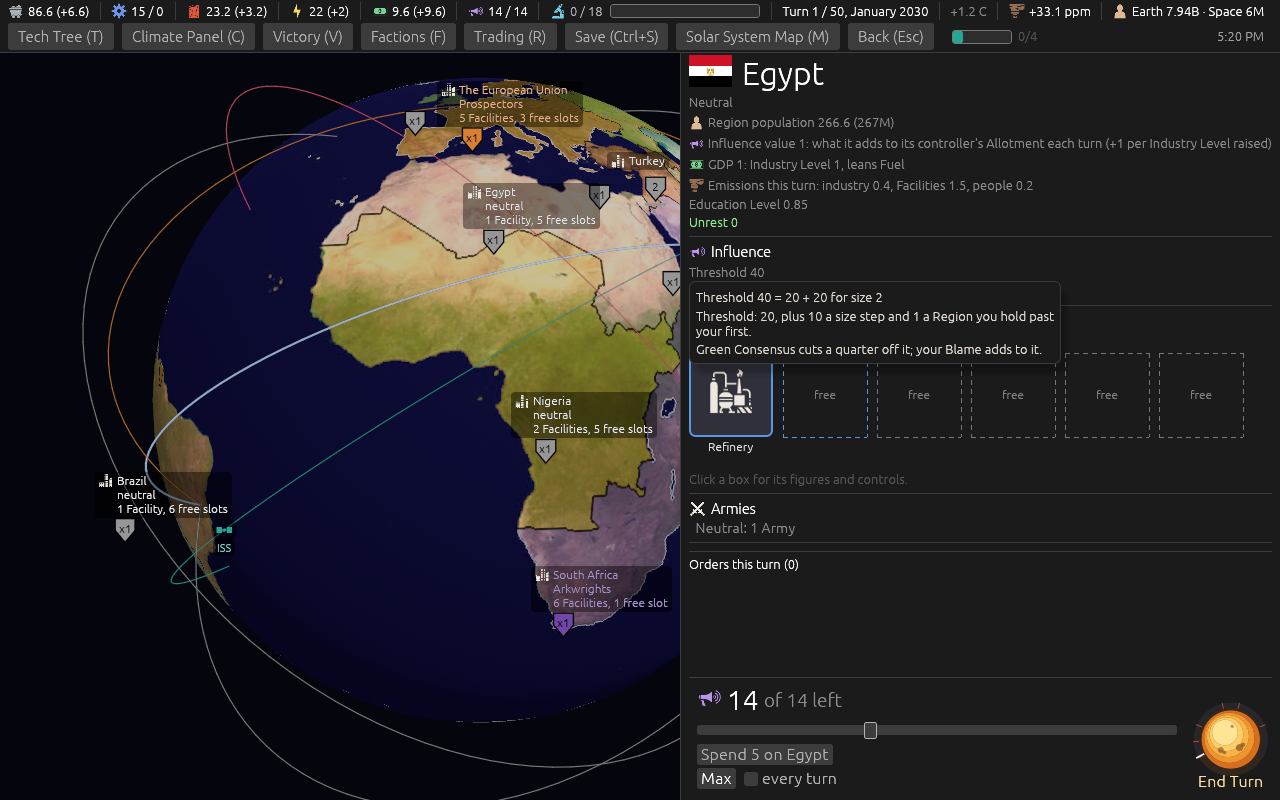
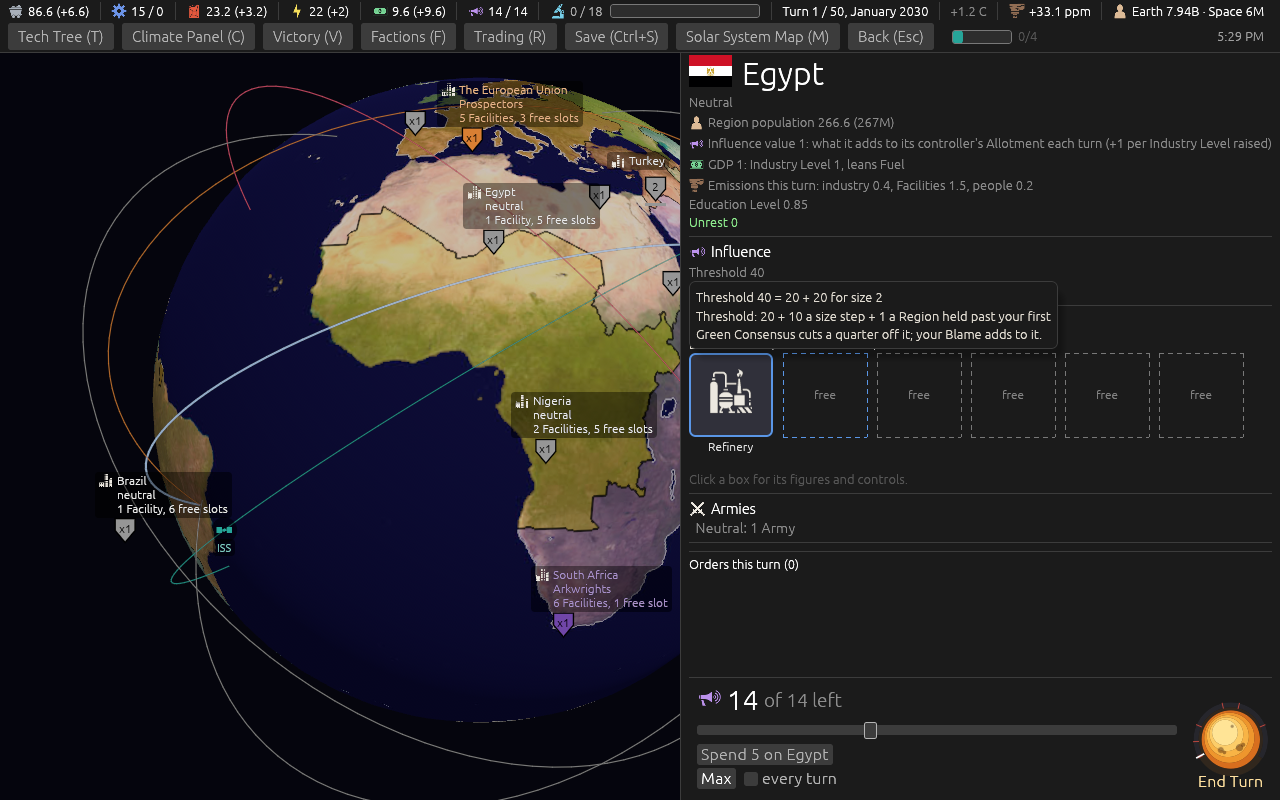
The cheapest rival named at the sum's head, the rule on one line, no sentence after a held place's sums; the stale comments (#608, from the review)

Changed region(s): [[0.5312, 0.375, 0.8438, 0.4688]]

diff --git a/src/ui.rs b/src/ui.rs
@@ -7138,16 +7138,15 @@ fn influence_row(ui: &mut Ui, game: &Game, session: &Session, view: &mut ViewSta
 /// hover of the row's threshold label (`threshold_terms`, `held_price_terms`). The card keeps the
 /// challenger sentence, the threat line and the conversion line.
 ///
-/// Ticket #336 (version 0.09.0): off Earth the first line names the base the place used, since a
-/// station's replaces a Colony's rather than sitting on top of it -- `Threshold 80 - 40 for the
-/// station + 40 for 2 Colonists`, and on the ground `40 for the Colony` in its place.
+/// Ticket #336 (version 0.09.0): off Earth the threshold's terms name the base the place used, since
+/// a station's replaces a Colony's rather than sitting on top of it -- `80 = 40 for the station + 40
+/// for 2 Colonists`, and on the ground `40 for the Colony` in its place.
 ///
-/// It replaces a single sentence that named neither Blame nor Green Consensus though both already
-/// moved the figure. Blame and Green Consensus join the threshold line as further terms only while
-/// they are BITING, which keeps the common case to three lines: measured, Blame sits at exactly
-/// x1.00 in 66% of takes. The conversion line is new with Resistance (ticket #187) and belongs
-/// beside the threshold rather than inside it: it prices what your SPENDING is worth here, where the
-/// other two lines price the gate.
+/// Blame and Green Consensus join the terms only while they are BITING: measured, Blame sits at
+/// exactly x1.00 in 66% of takes. The conversion line is Resistance's (ticket #187) and stays on the
+/// card beside the challenger sentence: it prices what your SPENDING is worth here, where the sums
+/// on the hover price the gate.
+///
 /// Ticket #608 (version 0.1.0.5): the threshold's terms as a SUM, for the threshold label's hover --
 /// `Threshold 31 = 20 + 10 for size 1 + 1 for Regions held`, then `, x1.10 (Blame)` and `, cut by
 /// Green Consensus` while they bite. Off Earth the base is the station's or the Colony's (#336).
@@ -7196,11 +7195,13 @@ fn held_price_terms(game: &Game, target: Place) -> Option<String> {
     let (base, relations, guard) = game.challenge_margin_parts(Some(challenger), target);
     let margin = base + relations + guard;
     let whose = if c == Seat(0) { "your Standing" } else { "their Standing" };
-    let head = if c == Seat(0) { "A rival takes it at" } else { "Take at" };
+    // On the player's own place the cheapest rival is named in the sum's head, so nothing is
+    // appended after it (the review: a clause after the under-threshold sentence read "stands., the").
+    let head = if c == Seat(0) { format!("The {} take it at", game.seat_name(challenger)) } else { "Take at".to_string() };
     // A holder with little Standing is protected by the THRESHOLD rather than by the margin, and the
     // line has to say so or it reads as bad arithmetic: "80 = 0 + 20" is not 80.
     if standing + margin < needed {
-        return Some(format!("{head} {needed}: {whose} {standing} + the margin {margin} comes to {}, under the threshold, so the threshold stands.", standing + margin));
+        return Some(format!("{head} {needed}: {whose} {standing} + the margin {margin} is {}, under the threshold, which stands", standing + margin));
     }
     let mut line = format!("{head} {needed} = {standing} ({whose}) + {base} (margin)");
     if relations > 0 {
@@ -7294,7 +7295,7 @@ Spending here raises the bar; doing nothing lowers it, yours decaying {} a turn 
         }
     }
 
-    // The third: Resistance, which taxes the spending rather than the gate.
+    // Resistance, which taxes the spending rather than the gate.
     let convert = 1.0 / game.resistance(target).max(1e-9);
     let own = game.place_control(target).controller() == Some(Seat(0));
     ui.label(
@@ -7400,22 +7401,8 @@ fn standings_row(ui: &mut Ui, game: &Game, session: &Session, target: Place) {
         if any {
             ui.label(RichText::new("·").weak());
         }
-        // Ticket #161: what a threshold IS and what sets it. The line's hover uses the word and
-        // never defines it.
-        let t = &game.tables.influence;
-        let from = match target {
-            // Ticket #591 (version 0.1.0.4), at the designer's word: the Regions-held term in the rule,
-            // and the size clause cut (the breakdown line beside it names the size).
-            Place::State(_) => format!("{}, plus {} a size step and {} a Region you hold past your first.", t.state_threshold_base, t.state_threshold_per_size, t.threshold_per_region_held),
-            // Ticket #336 (version 0.09.0): the base is the station's on a station and the Colony's
-            // on the ground, and one replaces the other, so the sentence names one figure and not two.
-            Place::Colony(_) => format!(
-                "{} for the {} itself, plus {} a Colonist living here.",
-                if game.colony(match target { Place::Colony(c) => c, _ => unreachable!() }).map(|c| c.in_orbit).unwrap_or(false) { t.station_threshold_base } else { t.colony_threshold_base },
-                if game.colony(match target { Place::Colony(c) => c, _ => unreachable!() }).map(|c| c.in_orbit).unwrap_or(false) { "station" } else { "Colony" },
-                t.colony_threshold_per_colonist
-            ),
-        };
+        // Ticket #161: what a threshold IS and what sets it; ticket #608 (version 0.1.0.5): one line.
+        let from = threshold_rule(game, target);
         // Ticket #372 (version 0.09.2): on a held place the row's figure is THE PRICE TO TAKE IT --
         // the greater of the threshold and the holder's Standing plus the margin, read by the rule
         // that takes it -- where it was the bare threshold whatever the holder stood at, so a
@@ -7435,17 +7422,36 @@ fn standings_row(ui: &mut Ui, game: &Game, session: &Session, target: Place) {
 fn threshold_label(game: &Game, target: Place, spectator: bool, from: &str) -> (String, String) {
     let threshold = game.influence_threshold_for(Seat(0), target);
     let terms = threshold_terms(game, target);
+    // Six lines at most (the review): the held sum and the terms run to two rendered lines each
+    // with a Constabulary, relations or Blame in them, the rule one, so a held place's tip carries
+    // no further sentence; the neutral tip, with no sum, keeps the Green Consensus line.
     match game.place_control(target).controller() {
         Some(Seat(0)) if !spectator => {
-            let (r, price) = cheapest_rival(game, target);
+            let (_, price) = cheapest_rival(game, target);
             let held = held_price_terms(game, target).unwrap_or_default();
-            (format!("A rival takes it at {price}"), format!("{held}, the {} cheapest.\n{terms}\nThreshold: {from}", game.seat_name(r)))
+            (format!("A rival takes it at {price}"), format!("{held}\n{terms}\nThreshold: {from}"))
         }
         Some(_) if !spectator => {
             let held = held_price_terms(game, target).unwrap_or_default();
-            (format!("Take at {}", game.influence_needed_for(Seat(0), target)), format!("{held}\n{terms}\nThreshold: {from}\nGreen Consensus cuts a quarter off it; your Blame adds to it."))
+            (format!("Take at {}", game.influence_needed_for(Seat(0), target)), format!("{held}\n{terms}\nThreshold: {from}"))
         }
         _ => (format!("Threshold {threshold}"), format!("{terms}\nThreshold: {from}\nGreen Consensus cuts a quarter off it; your Blame adds to it.")),
+    }
+}
+
+/// Ticket #161 (version 0.07.5): what a threshold IS and what sets it, for the label's hover. Ticket
+/// #591 (version 0.1.0.4): the Regions-held term. Ticket #608 (version 0.1.0.5): one rendered line,
+/// so the tip it closes stays under six.
+fn threshold_rule(game: &Game, target: Place) -> String {
+    let t = &game.tables.influence;
+    match target {
+        Place::State(_) => format!("{} + {} a size step + {} a Region held past your first", t.state_threshold_base, t.state_threshold_per_size, t.threshold_per_region_held),
+        // Ticket #336 (version 0.09.0): the base is the station's on a station and the Colony's on
+        // the ground, and one replaces the other, so the sentence names one figure and not two.
+        Place::Colony(c) => {
+            let station = game.colony(c).map(|x| x.in_orbit).unwrap_or(false);
+            format!("{} for the {} + {} a Colonist living here", if station { t.station_threshold_base } else { t.colony_threshold_base }, if station { "station" } else { "Colony" }, t.colony_threshold_per_colonist)
+        }
     }
 }
 
@@ -13892,19 +13898,30 @@ mod ticket_608 {
         let terms = threshold_terms(&g, home);
         assert!(terms.starts_with("Threshold ") && terms.contains(" = ") && !terms.contains(" - "), "a sum, never a dash: {terms}");
         let held = held_price_terms(&g, home).expect("the home Region is held");
-        assert!(held.starts_with("A rival takes it at ") && held.contains("(your Standing)") && held.contains("(margin)"), "{held}");
+        assert!(held.contains(" take it at ") && held.contains("(your Standing)") && held.contains("(margin)"), "the cheapest rival named, then the sum: {held}");
         let neutral = StateId::ALL.into_iter().find(|s| g.state(*s).control.controller().is_none()).expect("a neutral Region");
         assert_eq!(held_price_terms(&g, Place::State(neutral)), None, "nothing to take from on a neutral place");
         // Every tip the label carries, the sums in it, stays within the six-line rule: the player's
-        // own Region, a neutral one, and a rival's, with the rule sentence the card passes in.
-        let t = &g.tables.influence;
-        let from = format!("{}, plus {} a size step and {} a Region you hold past your first.", t.state_threshold_base, t.state_threshold_per_size, t.threshold_per_region_held);
+        // own Region, a neutral one, and a rival's, with the rule line the card passes in; then again
+        // with Green Consensus standing and the holder's Standing under the threshold (the longer
+        // sentence), the two cases the review found could push a tip to a seventh line.
         let rivals = StateId::ALL.into_iter().find(|s| g.state(*s).control.controller().is_some_and(|c| c != Seat(0))).expect("a rival's Region");
-        for (place, word) in [(home, "A rival takes it at"), (Place::State(neutral), "Threshold "), (Place::State(rivals), "Take at ")] {
-            let (label, tip) = threshold_label(&g, place, false, &from);
-            assert!(label.starts_with(word), "{label}");
-            assert!(hover_lines_estimate(&tip) <= 6, "{} lines: {tip}", hover_lines_estimate(&tip));
-            assert!(tip.contains(" = ") && !tip.contains(" - "), "the sums, never a dash: {tip}");
+        let mut g = g;
+        for pass in 0..2 {
+            if pass == 1 {
+                g.research.done.push(TechId::GreenConsensus);
+                g.seats[0].influence.insert(home, 1);
+                let holder = g.state(rivals).control.controller().unwrap();
+                g.seats[holder.index()].influence.insert(Place::State(rivals), 1);
+            }
+            for (place, word) in [(home, "A rival takes it at"), (Place::State(neutral), "Threshold "), (Place::State(rivals), "Take at ")] {
+                let from = threshold_rule(&g, place);
+                assert!(hover_lines_estimate(&from) == 1, "the rule on one line: {from}");
+                let (label, tip) = threshold_label(&g, place, false, &from);
+                assert!(label.starts_with(word), "{label}");
+                assert!(hover_lines_estimate(&tip) <= 6, "{} lines: {tip}", hover_lines_estimate(&tip));
+                assert!(tip.contains(" = ") && !tip.contains(" - ") && !tip.contains(".,"), "the sums, never a dash or a stray stop: {tip}");
+            }
         }
     }
 }

diff --git a/docs/spec/version-0.1.0.5.md b/docs/spec/version-0.1.0.5.md
@@ -228,10 +228,12 @@ cut it move to hover q2 yes"*.
   Prospectors stand at 31; they take this at 54."*), the threat line and the conversion line stay.
 - **The terms ride the threshold label's hover as sums**, its first lines: *"Threshold 31 = 20 + 10
   for size 1 + 1 for Regions held"* (then *", x1.10 (Blame)"* and *", cut by Green Consensus"* while
-  they bite), and on a held place *"A rival takes it at 58 = 38 (your Standing) + 20 (margin) + 5
-  (Constabulary), the Prospectors cheapest."* or *"Take at 58 = 38 (their Standing) + 20 (margin)"*;
+  they bite), and on a held place *"The Prospectors take it at 58 = 38 (your Standing) + 20 (margin) + 5
+  (Constabulary)"* (the cheapest rival named) or *"Take at 58 = 38 (their Standing) + 20 (margin)"*;
   where the threshold stands over that sum the line says so. The sentence that said the same in
-  words is cut, and the neutral tip's last sentence with it, so every tip stays under six lines.
+  words is cut, the rule line is one rendered line, and a held place's tip carries no further
+  sentence, so every tip stays under six lines with a Constabulary, relations, Blame or Green
+  Consensus in it (the review found the first shape could reach seven or eight).
 - **One hover per element**: the row's own tip, which fired under the label's and the Standings
   chips', goes, for the player and the spectator alike; its decay figures are on the Standings tip.
 - **The pictures** (`ticket-608/neutral-earth.png`, `own-earth.png`): the hover on a neutral
